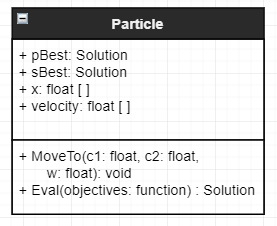
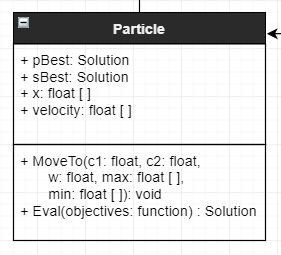
changed particle class diagram

Changed region(s): [[0.0289, 0.0, 1.0, 0.9602]]

diff --git a/doc/Particle/particle.md b/doc/Particle/particle.md
@@ -17,7 +17,7 @@ This attribute keeps track of the particles last velocity for inertia.
 ___
 ## Methods
 
-* move(c1: float, c2: float, w: float): void
+* move(c1: float, c2: float, w: float, max: float[ ], min: float [ ]): void
 The move method changes the classes x attribute, moving the particle in the dimension space.
 
 * eval(objective: function): solution
